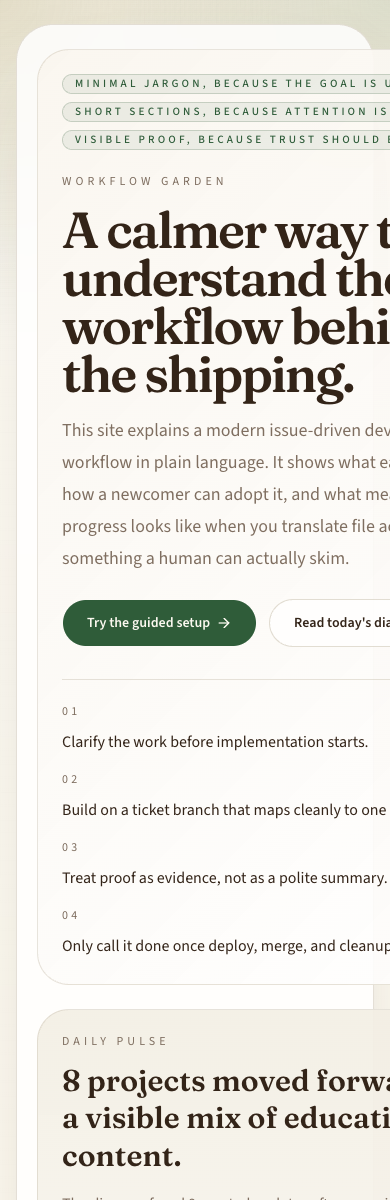
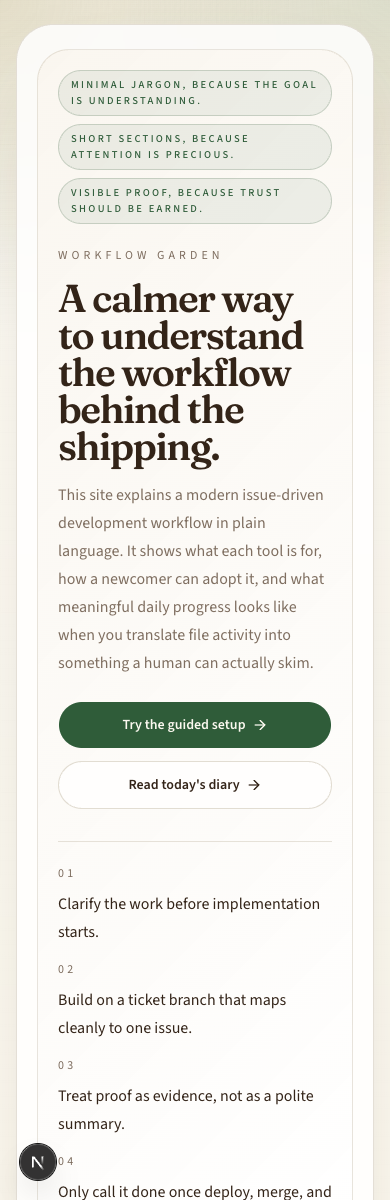
RAJ-38 Fix mobile hero overflow proof regression
Why
The shipped mobile overview had a real hero overflow bug that clipped the CTA row and made the original proof verdict incorrect.

What
Made the hero card shrink correctly on mobile, allowed the reassurance badges to wrap, stacked the primary CTAs at small widths, refreshed the mobile README screenshot, and reran design and acceptance proof artifacts.

Validation
pnpm lint
pnpm build
pnpm proof
PROOF_BASE_URL=https://workflow-garden.vercel.app pnpm proof
vercel --prod --yes

diff --git a/src/app/page.tsx b/src/app/page.tsx
@@ -58,28 +58,28 @@ export default function Home() {
       <div className="mx-auto flex w-full max-w-[98rem] flex-col gap-10 px-4 py-6 md:px-8 lg:gap-12 lg:px-10 lg:py-10">
         <section className="rounded-[2.3rem] border border-border/65 bg-white/84 px-5 py-6 shadow-[0_32px_90px_-48px_rgba(44,63,57,0.35)] backdrop-blur md:px-8 md:py-8 xl:px-10 xl:py-10">
           <div className="grid gap-6 xl:grid-cols-[1.35fr_0.95fr]">
-            <article className="flex flex-col justify-between rounded-[2rem] border border-border/55 bg-[linear-gradient(135deg,rgba(250,246,239,0.96),rgba(255,255,255,0.88))] p-6 md:p-8 xl:p-10">
-              <div className="space-y-6">
-                <div className="flex flex-wrap gap-2">
+            <article className="min-w-0 flex flex-col justify-between rounded-[2rem] border border-border/55 bg-[linear-gradient(135deg,rgba(250,246,239,0.96),rgba(255,255,255,0.88))] p-5 md:p-8 xl:p-10">
+              <div className="min-w-0 space-y-6">
+                <div className="flex min-w-0 flex-wrap gap-2">
                   {reassuranceNotes.map((note) => (
                     <Badge
                       key={note}
                       variant="outline"
-                      className="rounded-full border-primary/20 bg-primary/8 px-3 py-1 text-[0.7rem] uppercase tracking-[0.28em] text-primary"
+                      className="h-auto max-w-full whitespace-normal rounded-full border-primary/20 bg-primary/8 px-3 py-1.5 text-[0.66rem] leading-4 uppercase tracking-[0.22em] text-primary sm:text-[0.7rem] sm:tracking-[0.28em]"
                     >
                       {note}
                     </Badge>
                   ))}
                 </div>
 
-                <div className="space-y-4">
+                <div className="min-w-0 space-y-4">
                   <p className="text-xs uppercase tracking-[0.34em] text-muted-foreground">
                     Workflow Garden
                   </p>
-                  <h1 className="max-w-4xl text-[clamp(2.55rem,13vw,5.6rem)] leading-[0.95] font-semibold tracking-[-0.04em] text-foreground">
+                  <h1 className="max-w-4xl text-[clamp(2.15rem,10vw,5.6rem)] leading-[0.95] font-semibold tracking-[-0.04em] text-foreground sm:text-[clamp(2.55rem,13vw,5.6rem)]">
                     A calmer way to understand the workflow behind the shipping.
                   </h1>
-                  <p className="max-w-2xl text-lg leading-8 text-muted-foreground md:text-xl">
+                  <p className="max-w-2xl text-base leading-7 text-muted-foreground sm:text-lg sm:leading-8 md:text-xl">
                     This site explains a modern issue-driven development workflow
                     in plain language. It shows what each tool is for, how a
                     newcomer can adopt it, and what meaningful daily progress
@@ -88,13 +88,13 @@ export default function Home() {
                   </p>
                 </div>
 
-                <div className="flex flex-wrap items-center gap-3">
+                <div className="flex min-w-0 flex-col gap-3 sm:flex-row sm:flex-wrap sm:items-center">
                   <QuickStartSheet />
                   <Button
                     asChild
                     variant="outline"
                     size="lg"
-                    className="h-12 rounded-full border-border/70 bg-white/70 px-6 text-sm font-semibold"
+                    className="min-h-12 w-full whitespace-normal rounded-full border-border/70 bg-white/70 px-6 py-3 text-center text-sm font-semibold sm:w-auto"
                   >
                     <a href="#daily-diary">
                       Read today&apos;s diary
@@ -106,7 +106,7 @@ export default function Home() {
 
               <div className="mt-8 grid gap-4 border-t border-border/60 pt-6 md:grid-cols-2 xl:grid-cols-4">
                 {workflowBeats.map((beat, index) => (
-                  <div key={beat} className="space-y-2">
+                  <div key={beat} className="min-w-0 space-y-2">
                     <p className="text-xs uppercase tracking-[0.28em] text-muted-foreground">
                       0{index + 1}
                     </p>
@@ -116,7 +116,7 @@ export default function Home() {
               </div>
             </article>
 
-            <aside className="rounded-[2rem] border border-border/60 bg-[linear-gradient(180deg,rgba(243,239,228,0.92),rgba(255,255,255,0.9))] p-6 md:p-8">
+            <aside className="min-w-0 rounded-[2rem] border border-border/60 bg-[linear-gradient(180deg,rgba(243,239,228,0.92),rgba(255,255,255,0.9))] p-5 md:p-8">
               <div className="flex items-center justify-between gap-4">
                 <div>
                   <p className="text-xs uppercase tracking-[0.34em] text-muted-foreground">

diff --git a/src/components/quick-start-sheet.tsx b/src/components/quick-start-sheet.tsx
@@ -19,7 +19,7 @@ export function QuickStartSheet() {
       <SheetTrigger asChild>
         <Button
           size="lg"
-          className="h-12 rounded-full bg-primary px-6 text-sm font-semibold text-primary-foreground shadow-[0_18px_40px_-24px_rgba(55,74,48,0.6)] hover:bg-primary/92"
+          className="min-h-12 w-full whitespace-normal rounded-full bg-primary px-6 py-3 text-center text-sm font-semibold text-primary-foreground shadow-[0_18px_40px_-24px_rgba(55,74,48,0.6)] hover:bg-primary/92 sm:w-auto"
         >
           Try the guided setup
           <ArrowRight className="size-4" />

diff --git a/output/acceptance/design-proof.md b/output/acceptance/design-proof.md
@@ -6,7 +6,7 @@ Target URL: [https://workflow-garden.vercel.app](https://workflow-garden.vercel.
 
 ## Visible delta
 
-The final surface replaces the default scaffold with a designed educational landing page, a live-looking diary pulse, a guided setup sheet, a clear tool map, and a curated daily diary stream grounded in local activity data.
+The current surface keeps the same editorial direction, but the mobile hero now reflows correctly: the reassurance chips wrap within the card, the headline and body copy fit the viewport, and the two primary CTAs stack cleanly instead of clipping off-screen.
 
 ## Screenshot verdict
 
@@ -26,6 +26,6 @@ The final surface replaces the default scaffold with a designed educational land
 
 ## Notes
 
-- The screenshot review loop initially failed on tool-tab crowding and a wide-screen diary dead zone.
-- Both issues were fixed before the final production proof run.
-- Production console logs were clean during the final screenshot capture.
+- The earlier mobile verdict was wrong. A real overflow regression slipped through the first proof pass and was caught by screenshot review afterward.
+- This rerun specifically rechecked the hero at `390px` width and confirmed zero overflowing elements in the landing section.
+- Desktop and wide desktop still pass after the mobile fix, and console logs remained clean during the rerun.

diff --git a/output/acceptance/acceptance-proof.md b/output/acceptance/acceptance-proof.md
@@ -16,7 +16,9 @@ Observed behavior:
 - the quick-start sheet opened and rendered the four-step setup path
 - the diary section rendered curated repo-day entries
 - production console logs were clean across the overview, interactive sheet, and diary captures
-- the final screenshot set passed the composition gate
+- the original screenshot verdict was invalid because the shipped mobile hero still had a real overflow bug
+- the corrected live rerun now shows the hero fitting a `390px` viewport with stacked CTAs and no horizontal overflow
+- the fresh screenshot set now passes the composition gate on the deployed URL
 
 Pass/fail decision: pass
 
@@ -32,3 +34,4 @@ Evidence:
 Residual risk:
 
 - The activity diary depends on running `pnpm activity:refresh` before proof and deploy, so stale content is possible if someone skips that step.
+- The proof harness still emits repeated npm environment warnings from the wrapper shell, but the browser console for the exercised page remained clean.
